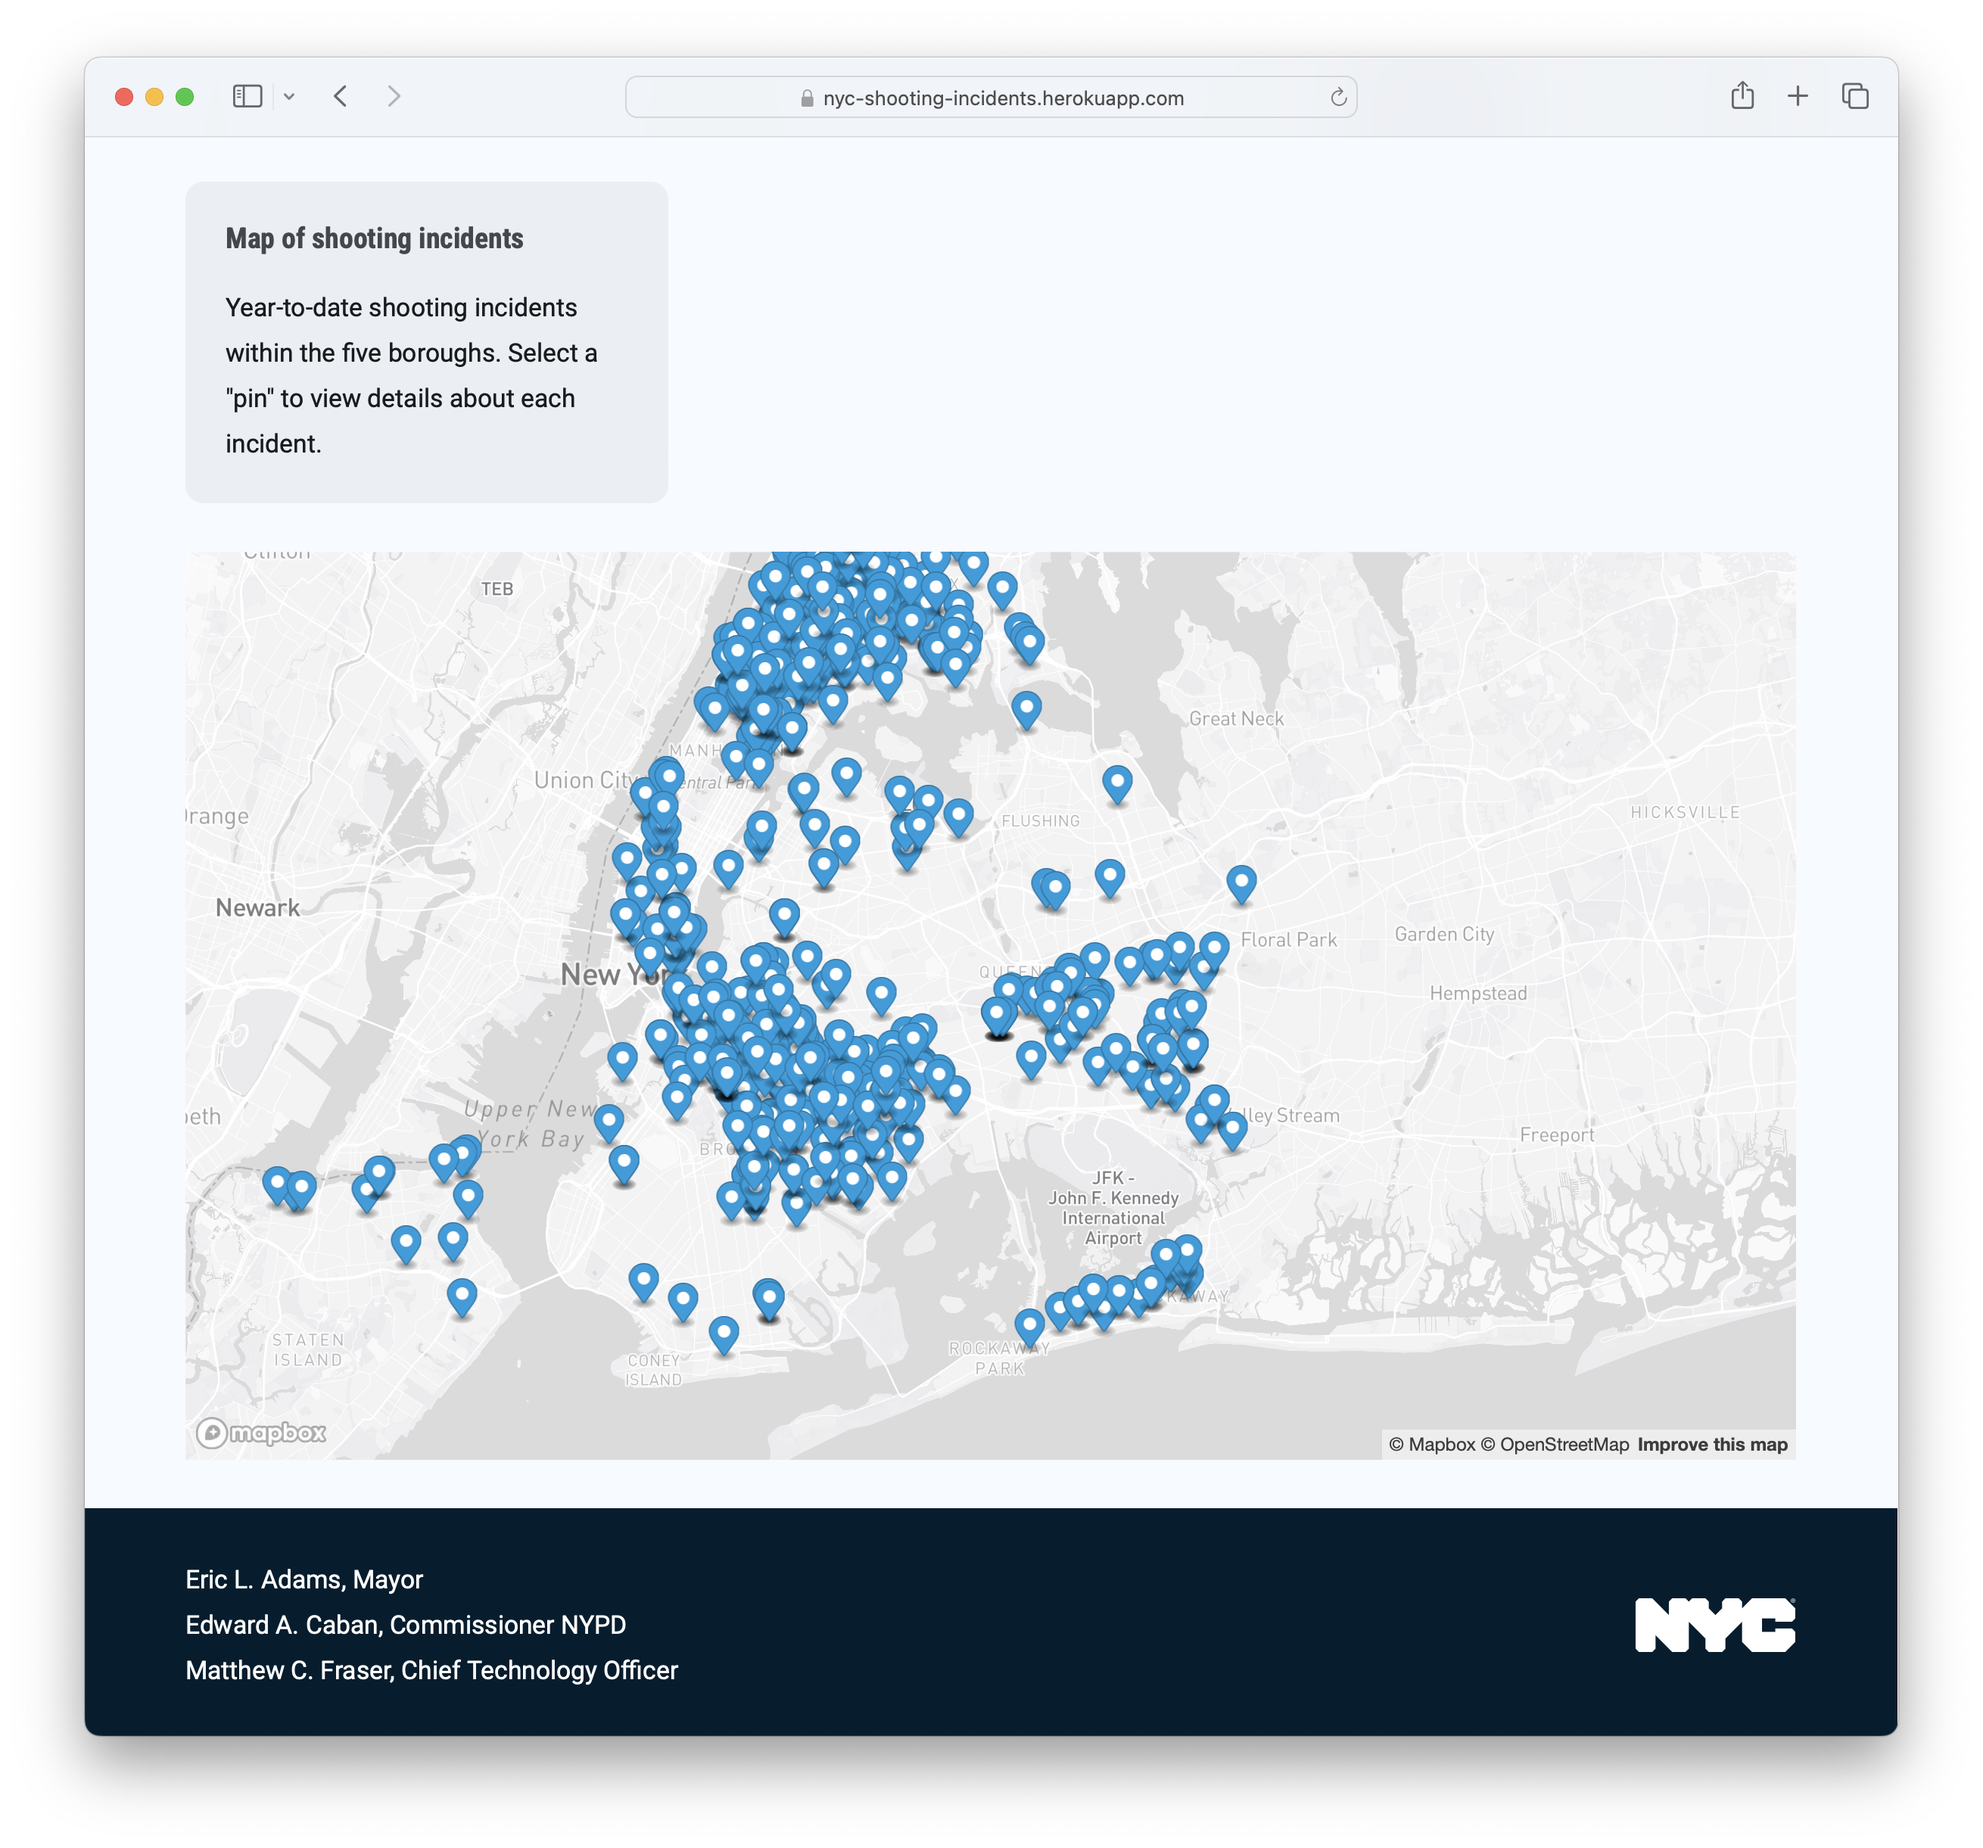
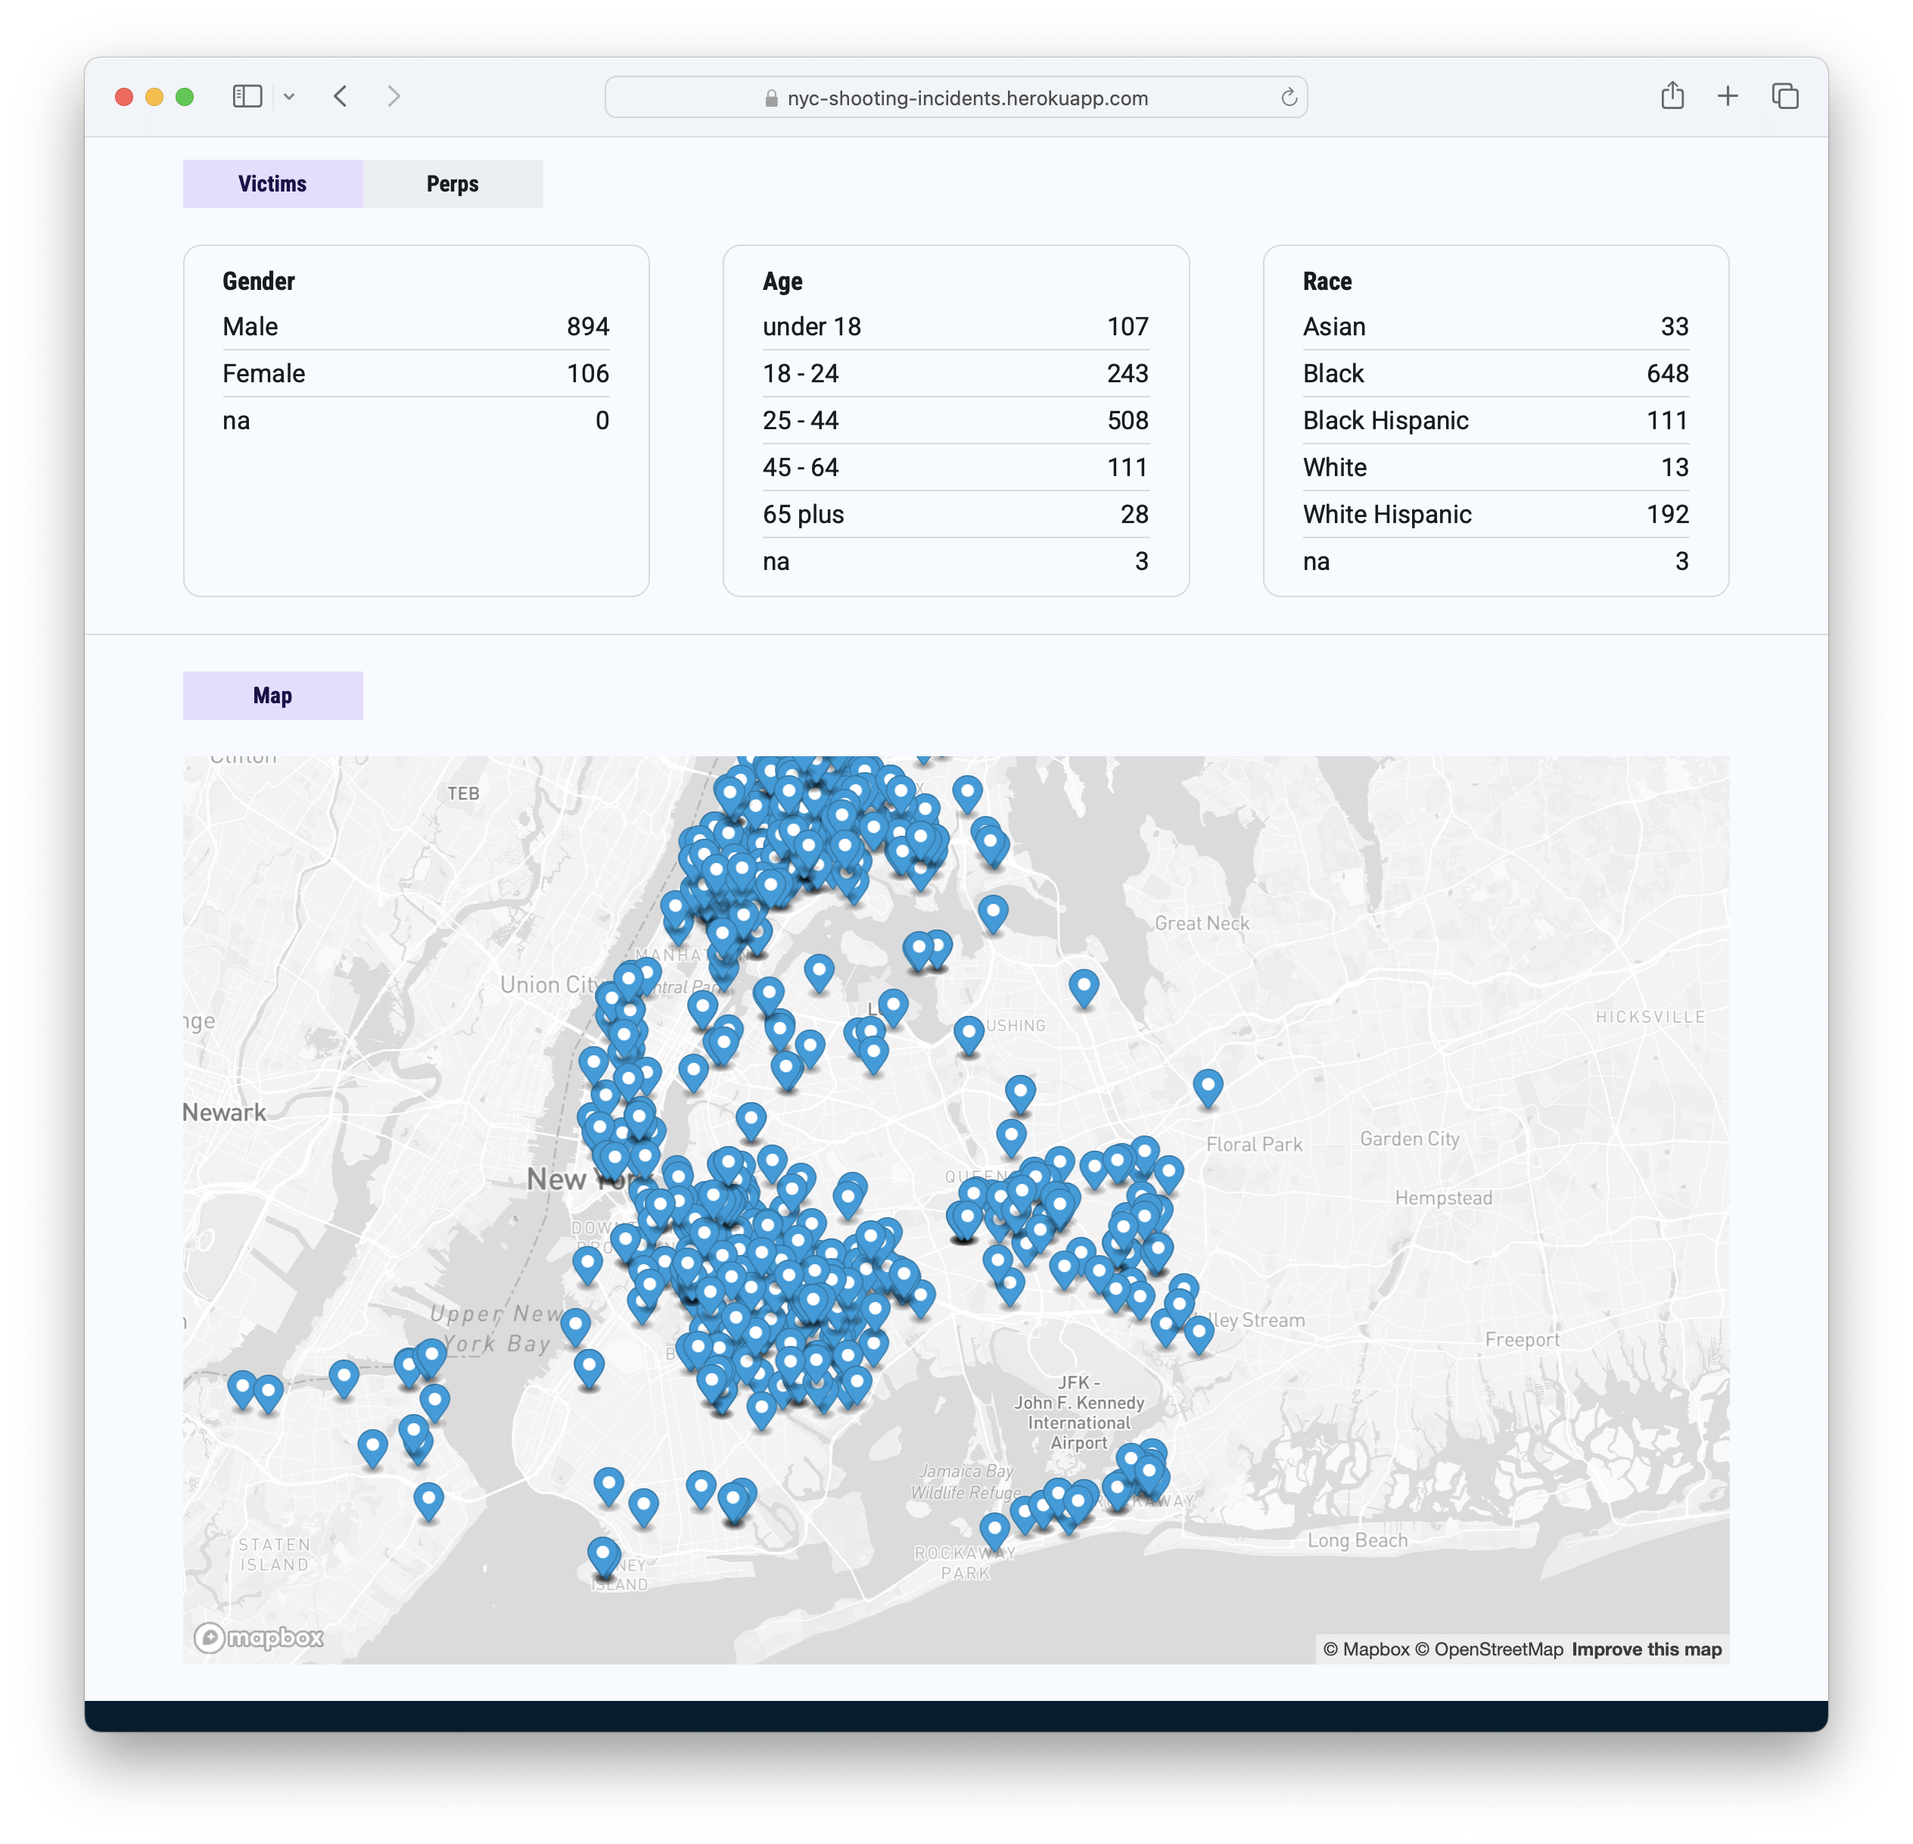
Redo screen shots after modifying design.

diff --git a/README.md b/README.md
@@ -9,10 +9,10 @@ Project meets general accessibility (WACG) and cross-browser requirements. More 
 
 ## Project Screen Shots
 
-* Header and charts
+* Header, Intro, Sites & Times
 ![screen shot of project](/screenshots/nyc-shooting-incidents-screenshot1.png?s=600)
 
-* Map and footer
+* Victims, Map
 ![screen shot of project](/screenshots/nyc-shooting-incidents-screenshot2.png?s=600)
 
 ## Installation and Setup Instructions
